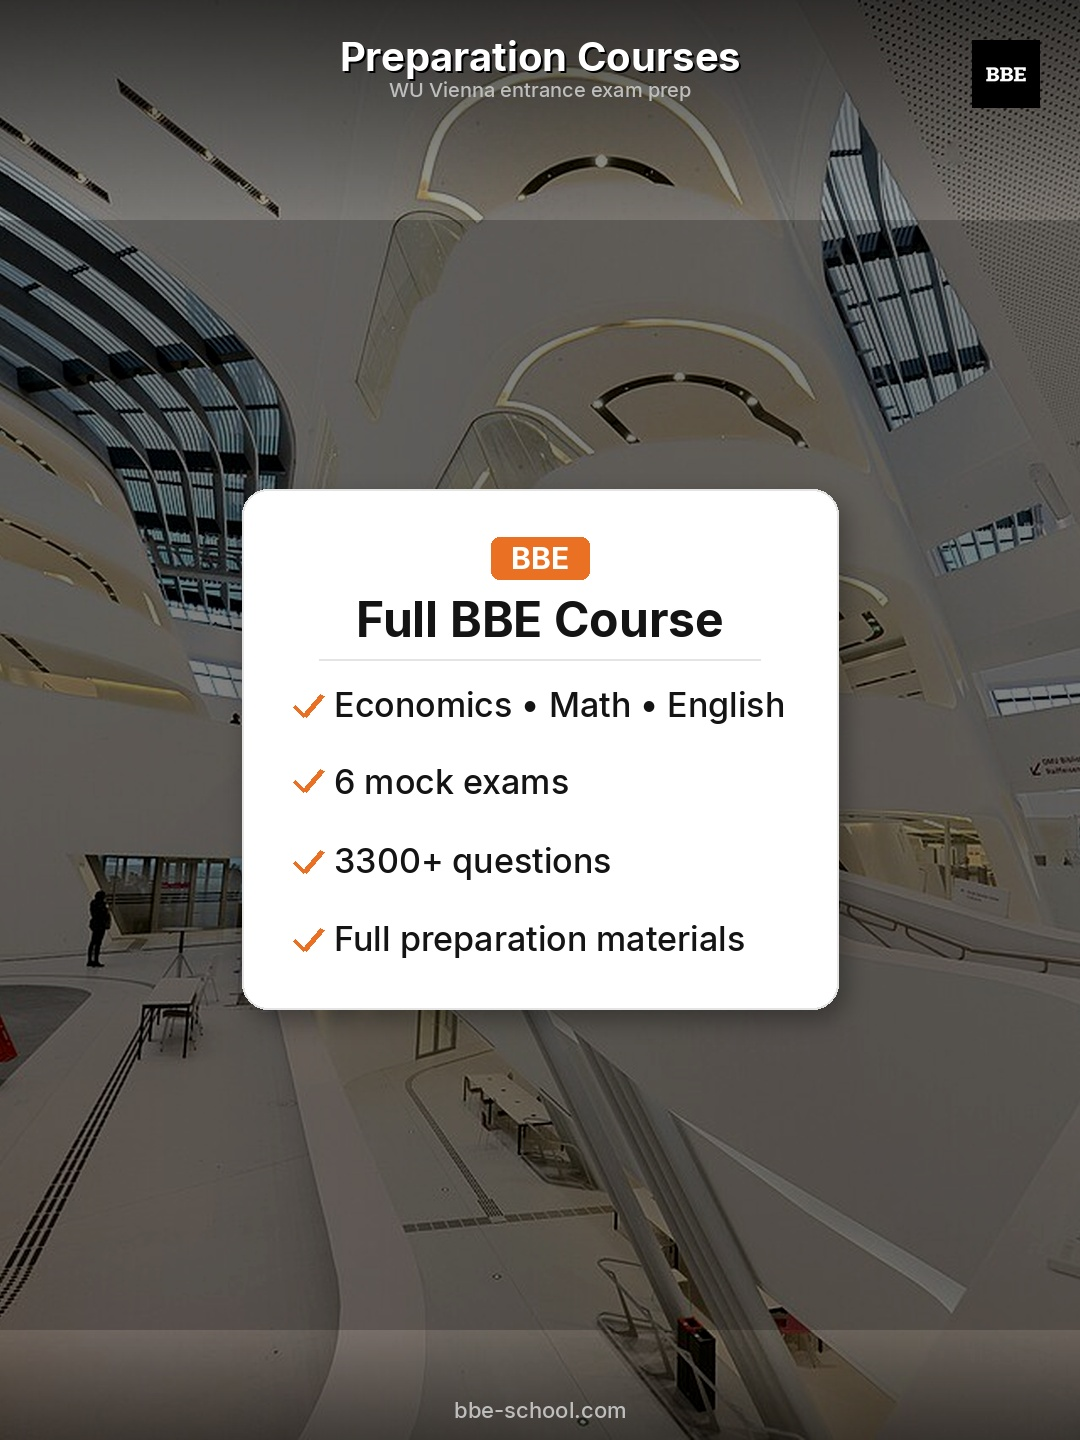
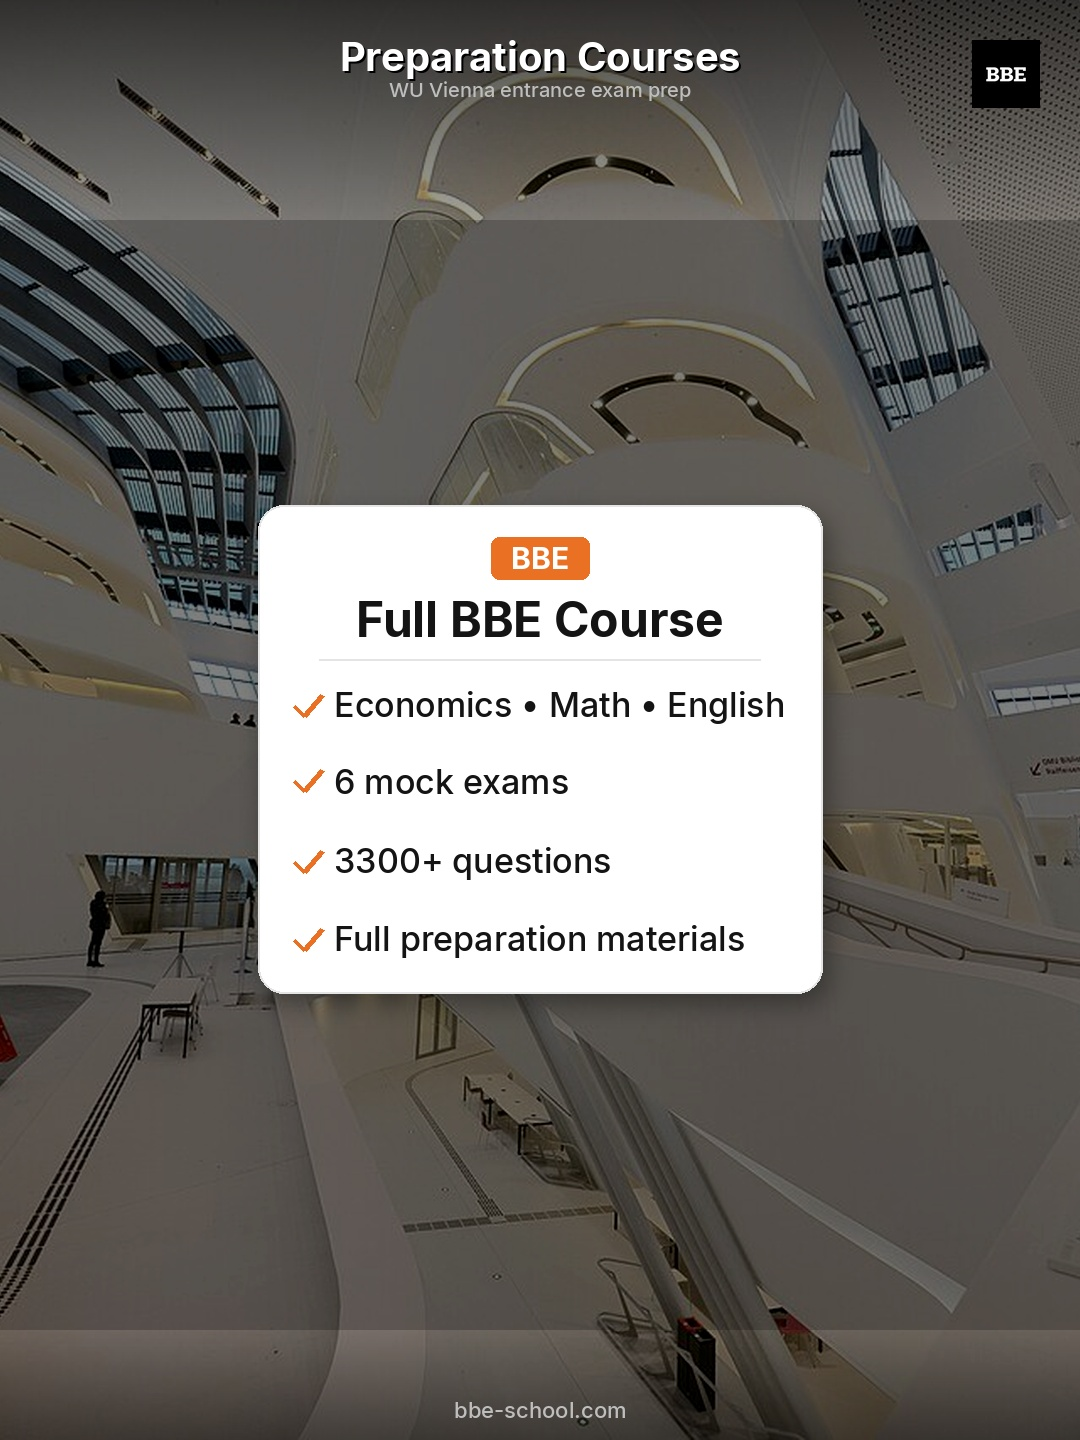
Shrink white cards further so campus fills the frame.
Tighter type, padding, and row spacing so each pin shows mostly photo with a small content card.

Changed region(s): [[0.2139, 0.3125, 0.7944, 0.7188]]

diff --git a/scripts/build_ig_banner_v2.py b/scripts/build_ig_banner_v2.py
@@ -35,10 +35,10 @@ H = 1440
 W = TILE * 3
 assert TILE * 4 == H * 3
 
-# Compact card — campus shows on all sides
-SIDE = 100
-PAD_X = 52
-PAD_Y = 48
+# Small card — campus dominates the frame
+SIDE = 160
+PAD_X = 36
+PAD_Y = 32
 HEADER = 130
 FOOTER = 72
 LOGO = 68
@@ -146,7 +146,7 @@ def paste_logo(canvas: Image.Image, x: int, y: int, size: int = LOGO) -> None:
 
 
 def check(draw: ImageDraw.ImageDraw, x: int, y: int, color: tuple[int, int, int]) -> None:
-    draw.line([(x, y + 12), (x + 10, y + 22), (x + 28, y + 1)], fill=color, width=5)
+    draw.line([(x, y + 9), (x + 7, y + 16), (x + 20, y + 1)], fill=color, width=4)
 
 
 def content_metrics(
@@ -155,16 +155,16 @@ def content_metrics(
     title: str,
     bullets: list[str],
 ) -> dict:
-    tag_f = F("Inter-Bold.ttf", 30)
-    title_f = F("Inter-Bold.ttf", 48)
-    body_f = F("Inter-Medium.ttf", 34)
+    tag_f = F("Inter-Bold.ttf", 24)
+    title_f = F("Inter-Bold.ttf", 36)
+    body_f = F("Inter-Medium.ttf", 26)
 
-    GAP_TAG = 22
-    GAP_TITLE = 22
-    GAP_RULE = 30
-    ROW = 78
-    CHECK_W = 40
-    TAG_BX, TAG_BY = 20, 10
+    GAP_TAG = 14
+    GAP_TITLE = 14
+    GAP_RULE = 18
+    ROW = 56
+    CHECK_W = 32
+    TAG_BX, TAG_BY = 14, 7
 
     tag_x0, tag_y0, tag_x1, tag_y1 = ink_bbox(draw, tag, tag_f)
     tag_tw, tag_th = tag_x1 - tag_x0, tag_y1 - tag_y0
@@ -220,17 +220,17 @@ def card(
     sh = Image.new("RGBA", canvas.size, (0, 0, 0, 0))
     sd = ImageDraw.Draw(sh)
     sd.rounded_rectangle(
-        [left + 6, top + 10, left + CARD_W + 6, top + CARD_H + 10],
-        radius=26,
-        fill=(0, 0, 0, 90),
+        [left + 5, top + 8, left + CARD_W + 5, top + CARD_H + 8],
+        radius=20,
+        fill=(0, 0, 0, 80),
     )
-    canvas.alpha_composite(sh.filter(ImageFilter.GaussianBlur(12)))
+    canvas.alpha_composite(sh.filter(ImageFilter.GaussianBlur(10)))
 
     layer = Image.new("RGBA", canvas.size, (0, 0, 0, 0))
     ld = ImageDraw.Draw(layer)
     ld.rounded_rectangle(
         [left, top, left + CARD_W, top + CARD_H],
-        radius=26,
+        radius=20,
         fill=(*CARD_BG, 255),
         outline=(*BORDER, 255),
         width=2,
@@ -362,16 +362,16 @@ def verify(full: Image.Image) -> None:
     tile_white = (tile0[:, :, 0] > 245) & (tile0[:, :, 1] > 245) & (tile0[:, :, 2] > 245)
     white_frac = float(tile_white.mean())
     print(f"layout card={CARD_W}x{CARD_H} TOP={TOP} white_frac_in_tile={white_frac:.2f}")
-    assert CARD_H < H * 0.62, CARD_H  # card not a full-bleed slab
-    assert white_frac < 0.45, white_frac  # most of the photo is visible
+    assert CARD_H < H * 0.40, CARD_H  # small card, photo dominates
+    assert white_frac < 0.18, white_frac
 
     # margins of campus around card
     top_margin = TOP
     bot_margin = H - (TOP + CARD_H)
     side_margin = (TILE - CARD_W) // 2
     print(f"campus margins T/B={top_margin}/{bot_margin} L/R={side_margin}")
-    assert top_margin >= 160 and bot_margin >= 100
-    assert side_margin >= 80
+    assert top_margin >= 280 and bot_margin >= 280
+    assert side_margin >= 140
 
     blue_mask = (
         (card_arr[:, :, 2] > 150)
